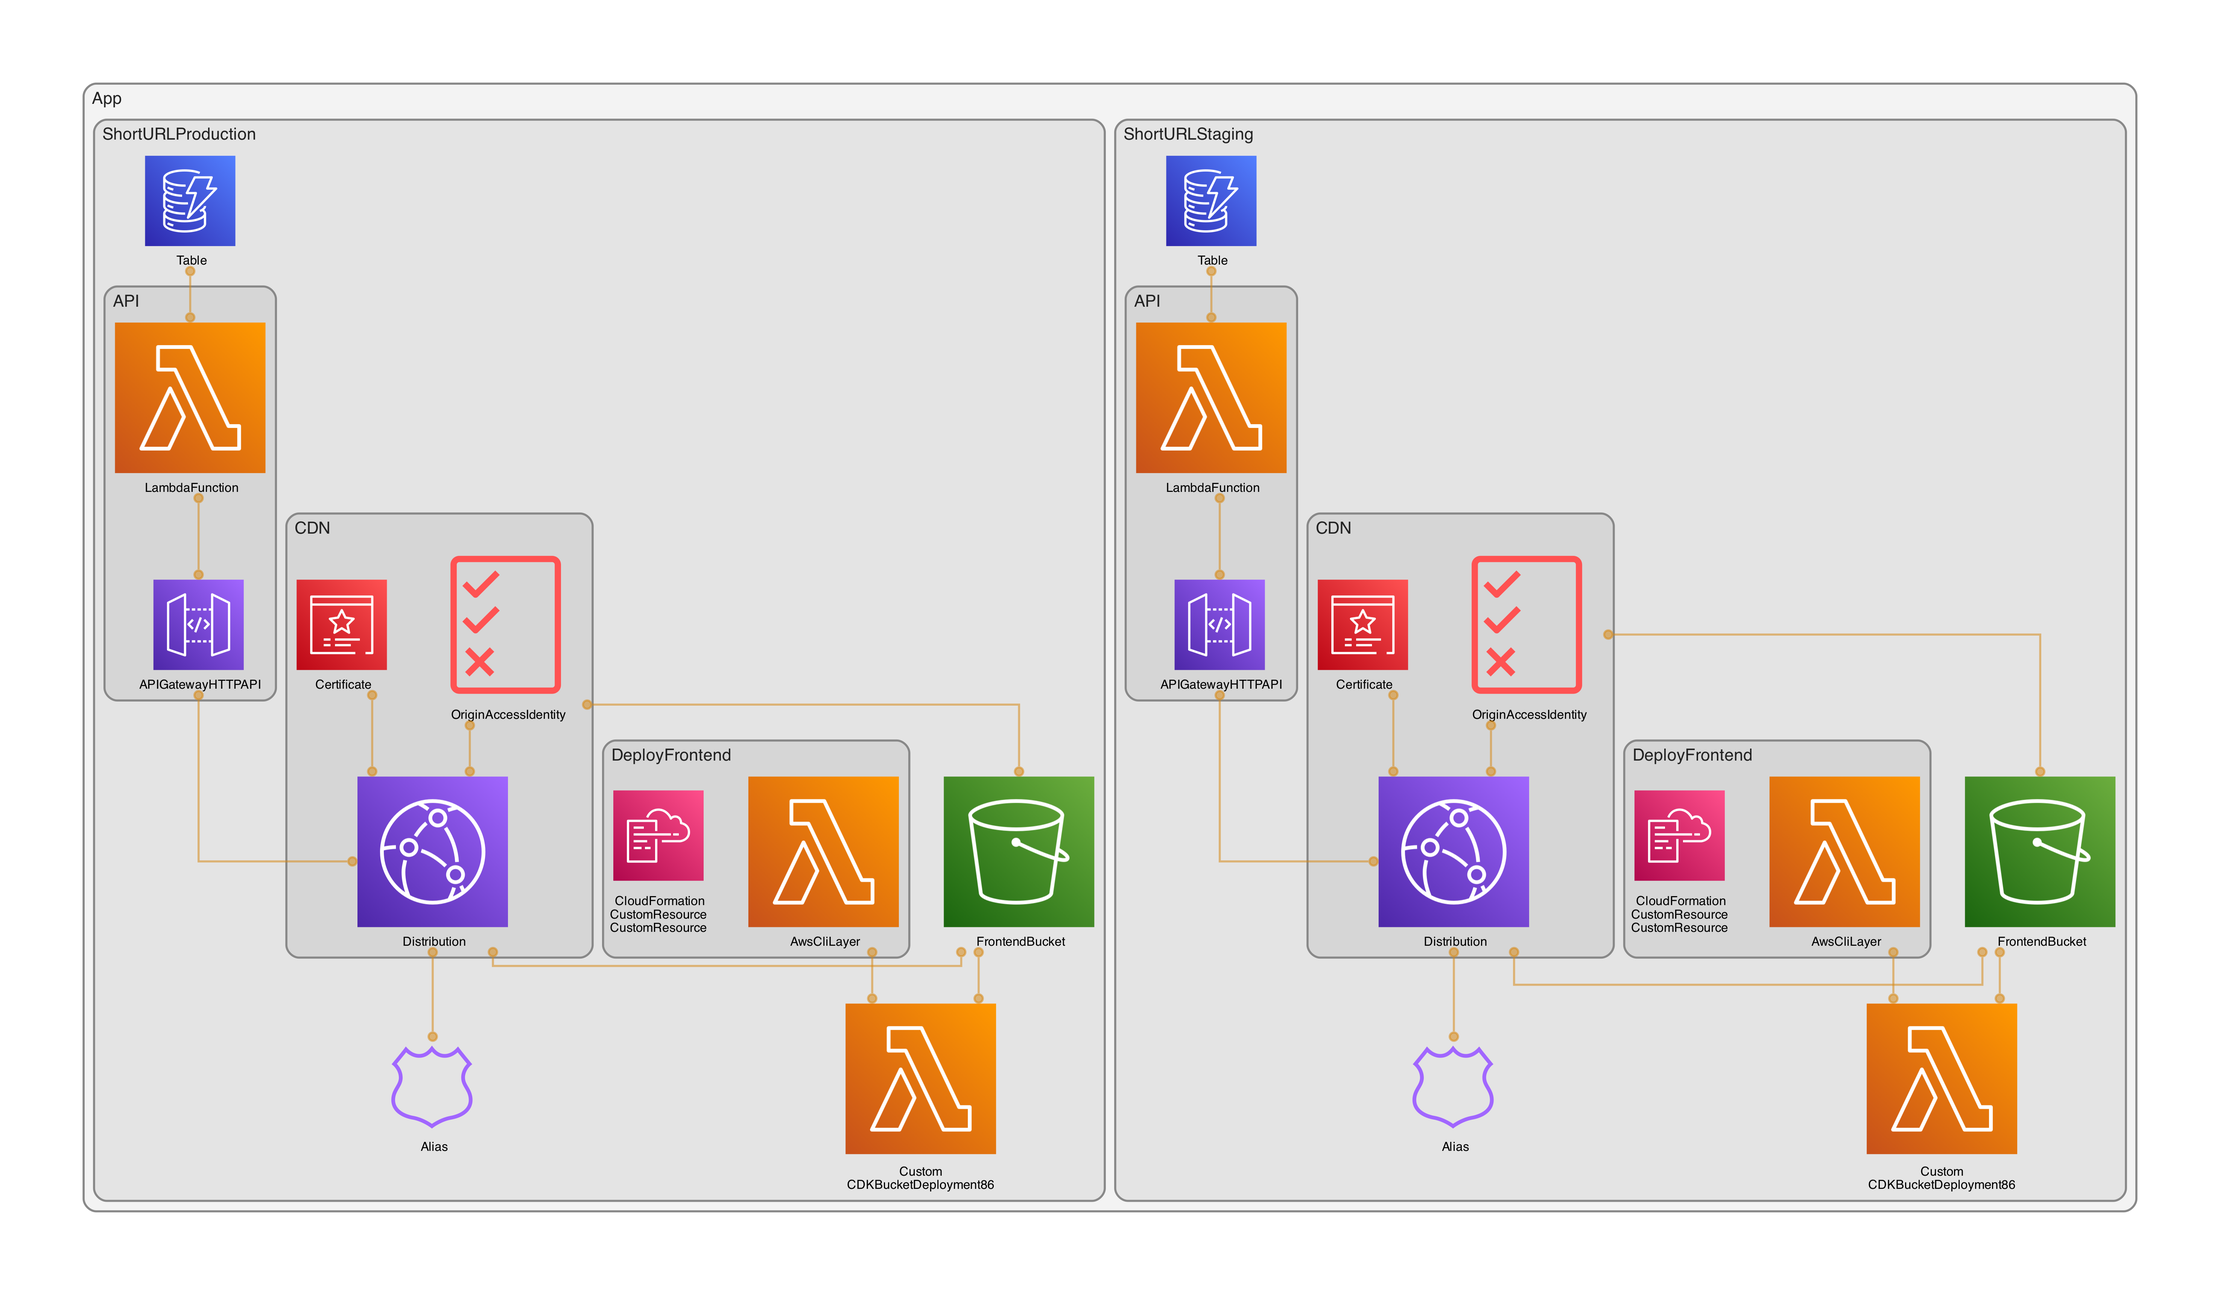
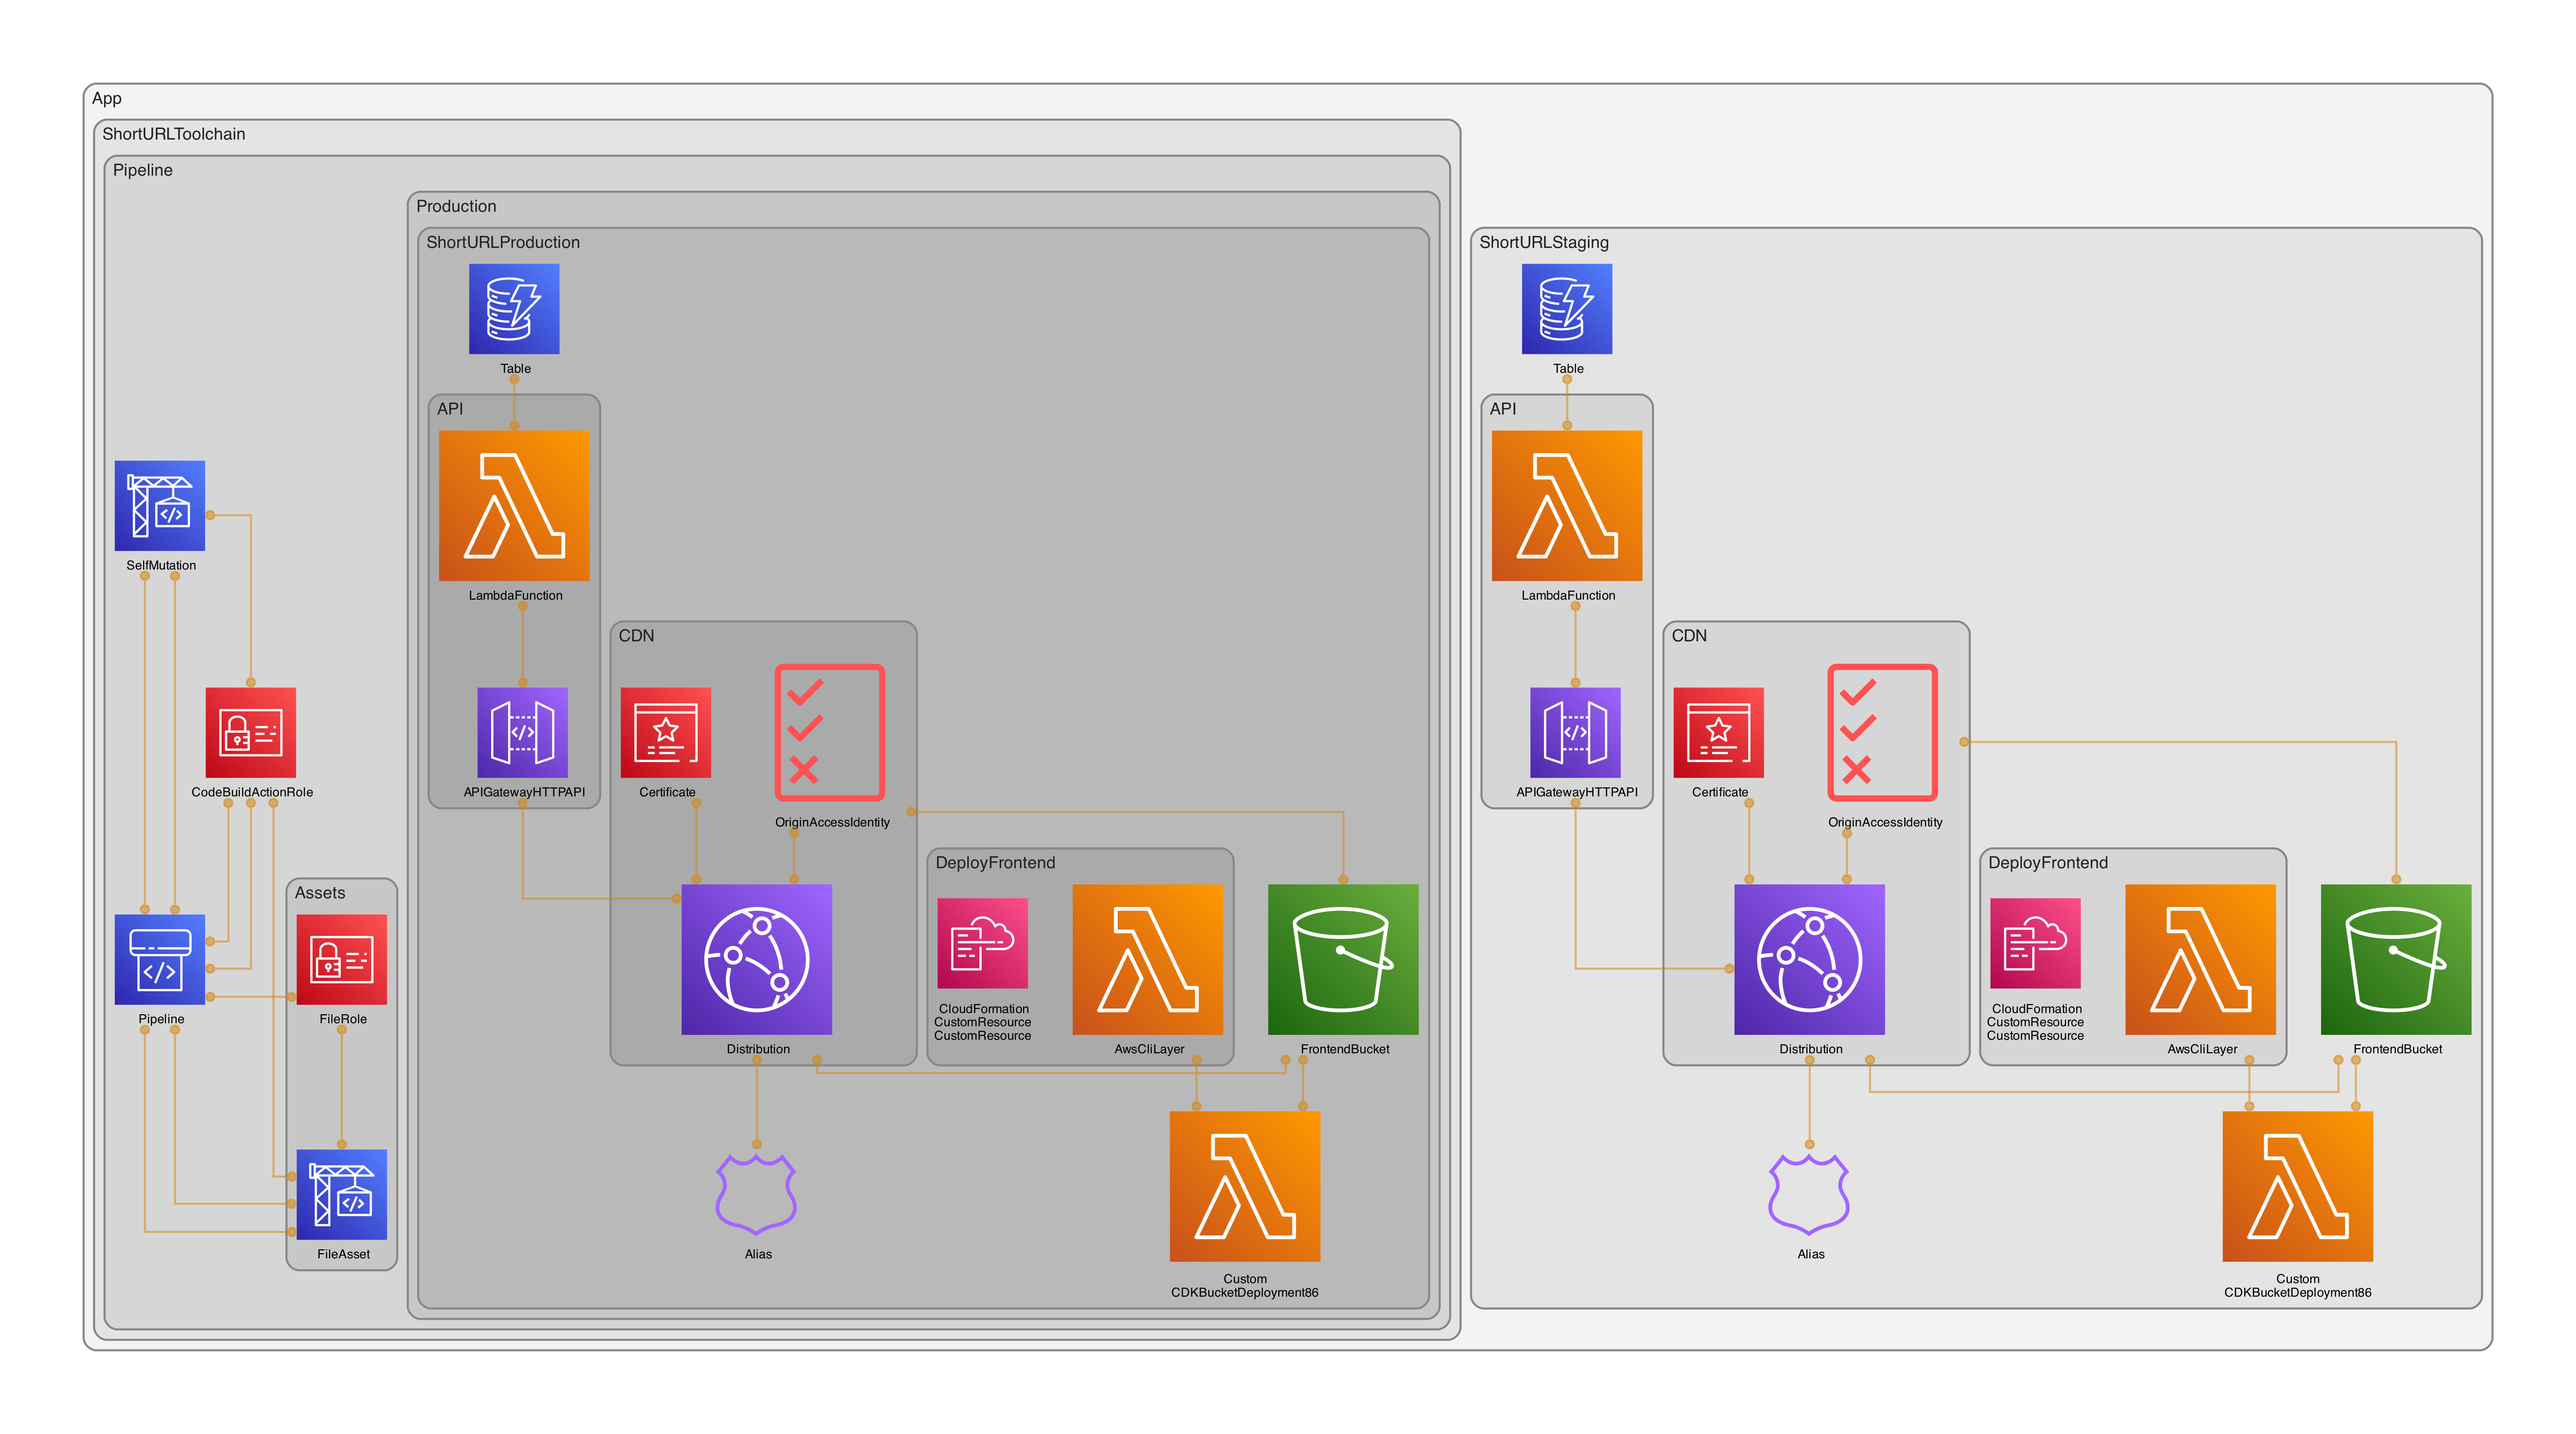
initial pipeline

diff --git a/toolchain/component.py b/toolchain/component.py
@@ -1,0 +1,69 @@
+import os
+from typing import Any
+
+import aws_cdk as cdk
+import aws_cdk.aws_codebuild as codebuild
+from aws_cdk import pipelines
+from aws_cdk import RemovalPolicy
+from constructs import Construct
+
+import constants
+from shorturl.component import ShortURL
+
+
+GITHUB_CONNECTION_ARN = os.environ["GITHUB_CONNECTION_ARN"]
+GITHUB_OWNER = "msaizar"
+GITHUB_REPO = "short-url-cdk"
+GITHUB_TRUNK_BRANCH = "main"
+PRODUCTION_ENV_NAME = "Production"
+PRODUCTION_ENV_ACCOUNT = os.environ["PRODUCTION_ACCOUNT"]
+PRODUCTION_ENV_REGION = "us-east-1"
+
+
+class Toolchain(cdk.Stack):
+    def __init__(self, scope: Construct, id_: str, **kwargs: Any):
+        super().__init__(scope, id_, **kwargs)
+
+        source = pipelines.CodePipelineSource.connection(
+            GITHUB_OWNER + "/" + GITHUB_REPO,
+            GITHUB_TRUNK_BRANCH,
+            connection_arn=GITHUB_CONNECTION_ARN,
+        )
+        build_spec = {"phases": {"install": {"runtime-versions": {"python": "3.7"}}}}
+        synth = pipelines.CodeBuildStep(
+            "Synth",
+            input=source,
+            partial_build_spec=codebuild.BuildSpec.from_object(build_spec),
+            install_commands=["./scripts/install-deps.sh"],
+            commands=["npx cdk synth"],
+            primary_output_directory="cdk.out",
+        )
+        pipeline = pipelines.CodePipeline(
+            self,
+            "Pipeline",
+            cross_account_keys=True,
+            docker_enabled_for_synth=True,
+            publish_assets_in_parallel=False,
+            synth=synth,
+        )
+        Toolchain._add_production_stage(pipeline)
+
+    @staticmethod
+    def _add_production_stage(pipeline: pipelines.CodePipeline) -> None:
+        production = cdk.Stage(
+            pipeline,
+            PRODUCTION_ENV_NAME,
+            env=cdk.Environment(
+                account=PRODUCTION_ENV_ACCOUNT, region=PRODUCTION_ENV_REGION
+            ),
+        )
+        ShortURL(
+            production,
+            constants.APP_NAME + PRODUCTION_ENV_NAME,
+            stack_name=constants.APP_NAME + PRODUCTION_ENV_NAME,
+            api_lambda_reserved_concurrency=1,
+            hosted_zone_name=constants.HOSTED_ZONE_NAME,
+            removal_policy=RemovalPolicy.RETAIN,
+        )
+
+        pipeline.add_stage(production)

diff --git a/app.py b/app.py
@@ -6,6 +6,7 @@ from aws_cdk import RemovalPolicy
 
 import constants
 from shorturl.component import ShortURL
+from toolchain.component import Toolchain
 
 
 app = cdk.App()
@@ -23,17 +24,13 @@ staging = ShortURL(
     removal_policy=RemovalPolicy.DESTROY,
 )
 
-production = ShortURL(
+toolchain = Toolchain(
     app,
-    constants.APP_NAME + "Production",
+    constants.APP_NAME + "Toolchain",
     env=cdk.Environment(
-        account=os.environ["CDK_DEFAULT_ACCOUNT"],
-        region=os.environ["CDK_DEFAULT_REGION"],
+        account=os.environ["CICD_ACCOUNT"],
+        region="us-east-1",
     ),
-    api_lambda_reserved_concurrency=1,
-    hosted_zone_name=constants.HOSTED_ZONE_NAME,
-    removal_policy=RemovalPolicy.RETAIN,
 )
-
 
 app.synth()

diff --git a/README.md b/README.md
@@ -3,7 +3,21 @@
 
 ## About
 
-This is a work in progress to try out different AWS services.  The idea is to write a fully functional URL shortener. To make this work you'll need to modify `constants.py` and set up `HOSTED_ZONE_NAME`. Each stack located at `app.py` should have its own `hosted_zone_name`, and each stack should be in its own account, with an already existing hosted zone. To install you can follow the instructions below, and to deploy you'll need to run `cdk bootstrap` the first time. After that you can deploy with `cdk deploy <STACK_NAME>`. Since we're relying on pre existing hosted zones, we'll need to specify the stack name in commands like `cdk synth` along with the profile. For example, `cdk synth ShortURLProduction --profile ShortURL-Production`.
+This is a work in progress to try out different AWS services.  The idea is to write a fully functional URL shortener. To make this work you'll need to modify `constants.py` and set up `HOSTED_ZONE_NAME`. Each stack located at `app.py` should have its own `hosted_zone_name`, and each stack should be in its own account, with an already existing hosted zone. You'll also need to set up the variables in `toolchain/component.py`. To install you can follow the installation instructions below.
+
+### Deploying to a production account with a different CI CD account
+
+`cdk bootstrap aws://<CI CD Account ID>/us-east-1 --profile ShortURL-CICD`
+
+`cdk bootstrap --trust <CI CD Account ID> --cloudformation-execution-policies arn:aws:iam::aws:policy/AdministratorAccess  aws://<PRODUCTION Account ID>/us-east-1 --profile ShortURL-Production`
+
+`cdk deploy ShortURLToolchain --profile ShortURL-CICD`
+
+### Deploying to a staging environment
+
+`cdk bootstrap aws://Staging Account ID>/us-east-1 --profile ShortURL-Staging`
+
+`cdk deploy ShortURLStaging --profile ShortURL-Staging`
 
 ![Infrastructure](/images/diagram.png)
 
@@ -65,7 +79,6 @@ Enjoy!
 
 ## TODO
 
-* Add CI/CD repo, CI/CD account
 * Log retention
 * Backups
 * Don't overwrite in dynamodb, create new short URL instead
